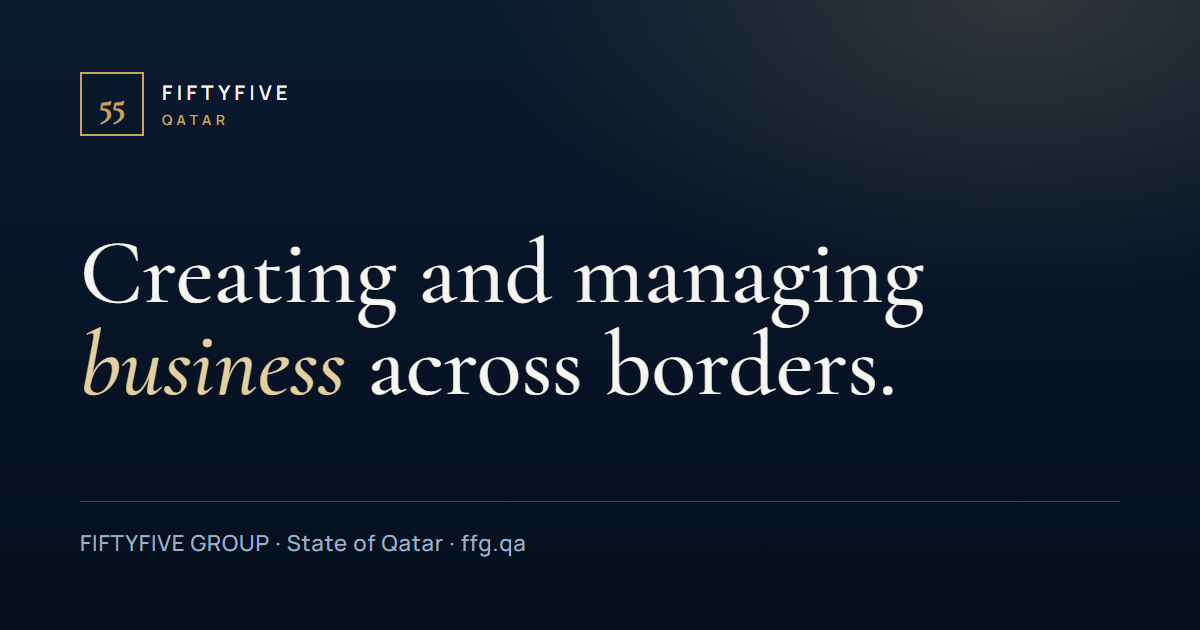
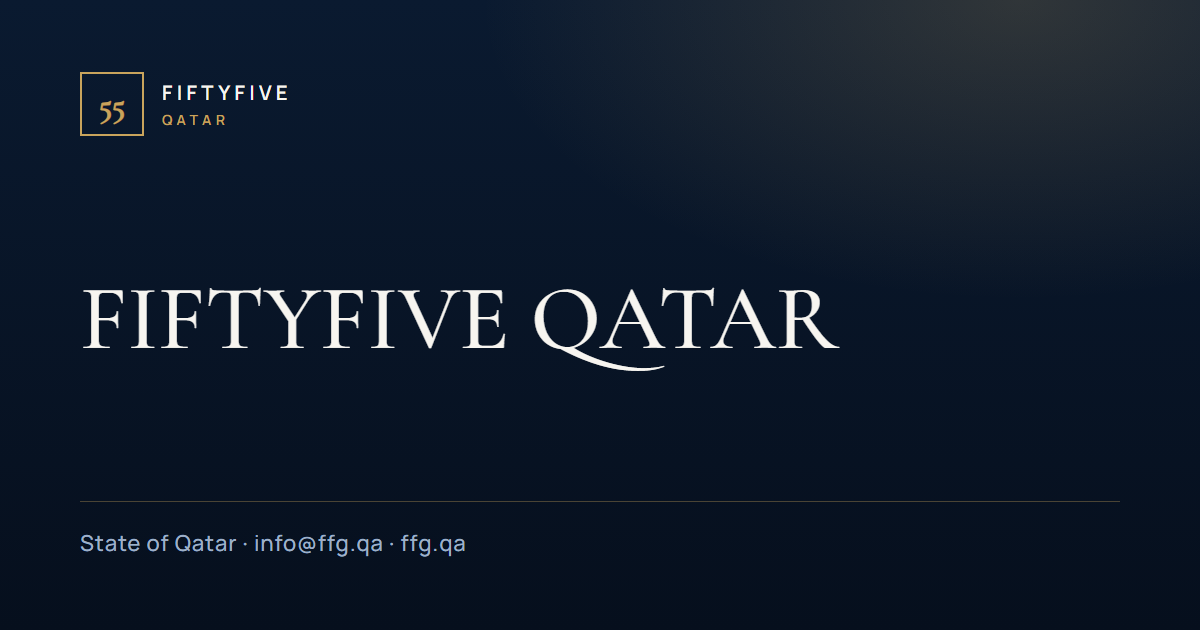
Reduce site to hero image and contact section

Changed region(s): [[0.0617, 0.3619, 0.7708, 0.6333], [0.0617, 0.8444, 0.4317, 0.9048]]

diff --git a/site/src/App.tsx b/site/src/App.tsx
@@ -1,36 +1,9 @@
 import { useEffect, useState, type FormEvent } from 'react'
-import { ArrowRight, Dumbbell, Landmark, Mail, Menu, Plane, Rocket, Shirt, UtensilsCrossed, X } from 'lucide-react'
-
-// All company facts below come from ffg.tj; do not add claims the client has not confirmed.
-const nav = [
-  ['About', '#about'],
-  ['Business', '#business'],
-  ['Qatar', '#qatar'],
-  ['Contact', '#contact'],
-]
-
-const business = [
-  { icon: Landmark, title: 'Finance', text: 'Eight years of experience in finance and insurance, including Vasl Bank, which develops a cashless economy in Tajikistan.' },
-  { icon: UtensilsCrossed, title: 'Food', text: 'Production, distribution and catering, including Community, a restaurant, banquet hall and event venue.' },
-  { icon: Shirt, title: 'Clothing', text: 'The iamfighter clothing brand, launched by the Group in 2017.' },
-  { icon: Plane, title: 'Aviation & Tourism', text: 'In-house airline ticketing software sold across the CIS, and Fly.tj online air ticket sales.' },
-  { icon: Dumbbell, title: 'Sport', text: 'Ten years in sport and a network of gyms, including UFC GYM Tajikistan and the Juventus Academy in Dushanbe.' },
-  { icon: Rocket, title: 'Startups', text: 'Support for early-stage innovative projects such as LakLak Market and UYSOT.' },
-]
-
-const values = [
-  ['Innovation', 'Continuous development and adoption of new technologies.'],
-  ['Professionalism', 'High competence and quality in everything we do.'],
-  ['Responsibility', 'Full accountability for our work and its results.'],
-]
-
-const countries = ['Qatar', 'UAE', 'China', 'Russia', 'Tajikistan', 'Kazakhstan', 'Uzbekistan', 'Georgia']
+import { ArrowRight, Mail } from 'lucide-react'
 
 const emails = ['Aziz@ffg.qa', 'Begarys@ffg.qa', 'Info@ffg.qa']
 
 export default function App() {
-  const [menuOpen, setMenuOpen] = useState(false)
-
   useEffect(() => {
     const io = new IntersectionObserver(
       (entries) => entries.forEach((e) => e.isIntersecting && (e.target.classList.add('in'), io.unobserve(e.target))),
@@ -42,12 +15,9 @@ export default function App() {
 
   return (
     <>
-      <Header menuOpen={menuOpen} setMenuOpen={setMenuOpen} />
+      <Header />
       <main>
         <Hero />
-        <About />
-        <Business />
-        <Qatar />
         <Contact />
       </main>
       <Footer />
@@ -67,7 +37,7 @@ function Logo() {
   )
 }
 
-function Header({ menuOpen, setMenuOpen }: { menuOpen: boolean; setMenuOpen: (v: boolean) => void }) {
+function Header() {
   const [scrolled, setScrolled] = useState(false)
   useEffect(() => {
     const onScroll = () => setScrolled(window.scrollY > 20)
@@ -76,33 +46,11 @@ function Header({ menuOpen, setMenuOpen }: { menuOpen: boolean; setMenuOpen: (v:
   }, [])
 
   return (
-    <header className={`fixed inset-x-0 top-0 z-50 transition-colors ${scrolled || menuOpen ? 'bg-navy-950/90 backdrop-blur' : ''}`}>
+    <header className={`fixed inset-x-0 top-0 z-50 transition-colors ${scrolled ? 'bg-navy-950/90 backdrop-blur' : ''}`}>
       <div className="mx-auto flex max-w-7xl items-center justify-between px-4 py-5 sm:px-8">
         <Logo />
-        <nav className="hidden gap-9 text-sm text-muted md:flex">
-          {nav.map(([label, href]) => (
-            <a key={href} href={href} className="transition-colors hover:text-paper">{label}</a>
-          ))}
-        </nav>
-        <a href="#contact" className="btn btn-gold hidden md:inline-flex">Contact Us</a>
-        <button
-          className="grid size-10 place-items-center border border-paper/25 md:hidden"
-          aria-label={menuOpen ? 'Close menu' : 'Open menu'}
-          aria-expanded={menuOpen}
-          onClick={() => setMenuOpen(!menuOpen)}
-        >
-          {menuOpen ? <X size={20} /> : <Menu size={20} />}
-        </button>
+        <a href="#contact" className="btn btn-gold max-sm:px-4 max-sm:py-2.5">Contact Us</a>
       </div>
-      {menuOpen && (
-        <nav className="flex flex-col border-t border-line px-4 pb-6 md:hidden">
-          {nav.map(([label, href]) => (
-            <a key={href} href={href} onClick={() => setMenuOpen(false)} className="border-b border-line py-4 font-display text-2xl">
-              {label}
-            </a>
-          ))}
-        </nav>
-      )}
     </header>
   )
 }
@@ -111,46 +59,20 @@ function Hero() {
   return (
     <section
       id="top"
-      className="relative flex min-h-svh flex-col overflow-hidden pt-24"
+      className="relative flex min-h-svh flex-col items-center justify-center overflow-hidden px-4 pt-28 pb-16 text-center"
       style={{
         background:
-          'radial-gradient(1200px 600px at 78% 8%, rgb(201 164 92 / .16), transparent 60%), radial-gradient(900px 700px at 10% 110%, rgb(17 38 74 / .9), transparent 70%), linear-gradient(180deg, #0a1a30, #060f1d)',
+          'radial-gradient(1200px 600px at 50% 0%, rgb(201 164 92 / .16), transparent 60%), radial-gradient(900px 700px at 10% 110%, rgb(17 38 74 / .9), transparent 70%), linear-gradient(180deg, #0a1a30, #060f1d)',
       }}
     >
       <div
         className="pointer-events-none absolute inset-0"
         style={{ backgroundImage: 'linear-gradient(to right, rgb(255 255 255 / .035) 1px, transparent 1px)', backgroundSize: 'calc(100% / 6) 100%' }}
       />
-      <div className="relative mx-auto grid w-full max-w-7xl flex-1 items-center gap-10 px-4 sm:px-8 lg:grid-cols-[1.1fr_.9fr]">
-        <div>
-          <p className="eyebrow reveal">FIFTYFIVE GROUP · State of Qatar</p>
-          <h1 className="reveal my-7 font-display text-[clamp(44px,6.4vw,96px)] font-medium leading-[.98]">
-            Creating and managing <em className="text-gold-soft">business</em> across borders.
-          </h1>
-          <p className="reveal max-w-xl leading-relaxed text-muted">
-            <strong className="font-medium text-paper">FIFTYFIVE QATAR</strong> represents FIFTYFIVE GROUP — an investment and
-            management company founded in 2015 — in the State of Qatar.
-          </p>
-          <div className="reveal mt-10 flex flex-wrap gap-3.5">
-            <a href="#contact" className="btn btn-gold">Contact Us <ArrowRight size={16} /></a>
-            <a href="#business" className="btn btn-ghost">Our Business</a>
-          </div>
-        </div>
-        <Skyline />
-      </div>
-      <div className="relative mx-auto mt-12 grid w-full max-w-7xl grid-cols-3 border-t border-line px-4 sm:px-8 lg:grid-cols-[auto_auto_auto_1fr]">
-        {[['2015', 'Founded'], ['10', 'Years of work'], ['8', 'Countries']].map(([n, label]) => (
-          <div key={label} className="border-r border-line py-6 pr-3 last-of-type:border-r-0 lg:mr-12 lg:pr-12 lg:last-of-type:border-r">
-            <b className="block font-display text-4xl font-medium leading-none text-gold lg:text-5xl">{n}</b>
-            <span className="mt-2 block text-[10px] uppercase tracking-[0.12em] text-muted sm:text-xs">{label}</span>
-          </div>
-        ))}
-        <ul className="col-span-3 flex flex-wrap gap-x-6 gap-y-2.5 pb-8 text-[13px] text-muted lg:col-span-1 lg:justify-end lg:self-center lg:pb-0">
-          {business.map((b) => (
-            <li key={b.title} className="flex items-center gap-2.5 before:size-1.5 before:rotate-45 before:bg-gold">{b.title}</li>
-          ))}
-        </ul>
-      </div>
+      <Skyline />
+      <p className="eyebrow reveal relative mt-10 justify-center">State of Qatar</p>
+      <h1 className="reveal relative mt-5 font-display text-[clamp(44px,7vw,104px)] font-medium leading-none">FIFTYFIVE QATAR</h1>
+      <a href="#contact" className="btn btn-gold reveal relative mt-10">Contact Us <ArrowRight size={16} /></a>
     </section>
   )
 }
@@ -158,7 +80,7 @@ function Hero() {
 // Stylised West Bay skyline; swap for a licensed Doha photo when the client provides one.
 function Skyline() {
   return (
-    <svg className="skyline max-h-56 w-full self-end max-lg:-order-1 lg:max-h-none" viewBox="0 0 560 420" aria-hidden="true">
+    <svg className="skyline relative max-h-[46svh] w-full max-w-3xl" viewBox="0 0 560 420" aria-hidden="true">
       <defs>
         <linearGradient id="tower" x1="0" y1="0" x2="0" y2="1">
           <stop offset="0" stopColor="#c9a45c" stopOpacity=".22" />
@@ -182,93 +104,6 @@ function Skyline() {
       <line className="sea" x1="120" y1="394" x2="440" y2="394" />
       <line className="sea" x1="190" y1="408" x2="370" y2="408" />
     </svg>
-  )
-}
-
-function SectionHead({ eyebrow, title }: { eyebrow: string; title: string }) {
-  return (
-    <div className="reveal mb-14">
-      <p className="eyebrow">{eyebrow}</p>
-      <h2 className="mt-5 max-w-3xl font-display text-[clamp(34px,4.4vw,60px)] font-medium leading-[1.05]">{title}</h2>
-    </div>
-  )
-}
-
-function About() {
-  return (
-    <section id="about" className="bg-paper text-navy-950">
-      <div className="mx-auto max-w-7xl px-4 py-24 sm:px-8 lg:py-32">
-        <SectionHead eyebrow="About us" title="The Qatar office of FIFTYFIVE GROUP." />
-        <div className="grid gap-12 lg:grid-cols-2">
-          <div className="reveal space-y-5 text-lg leading-relaxed text-navy-800">
-            <p>
-              FIFTYFIVE GROUP is an investment and management company, established as a separate enterprise in 2015. For ten
-              years the Group has been creating and managing businesses in Tajikistan, Uzbekistan, Kazakhstan, Russia, China and
-              the United Arab Emirates.
-            </p>
-            <p>FIFTYFIVE QATAR represents the Group in the State of Qatar.</p>
-          </div>
-          <blockquote className="reveal border-l-2 border-gold pl-8 font-display text-3xl italic leading-snug">
-            “Our team creates and manages business to develop the economy and society.”
-            <footer className="mt-4 font-sans text-xs not-italic uppercase tracking-[0.24em] text-navy-800/70">Our mission</footer>
-          </blockquote>
-        </div>
-        <div className="mt-20 grid border-t border-navy-950/15 sm:grid-cols-3">
-          {values.map(([title, text]) => (
-            <div key={title} className="reveal border-b border-navy-950/15 py-8 sm:border-r sm:border-b-0 sm:px-8 sm:first:pl-0 sm:last:border-r-0">
-              <h3 className="font-display text-2xl font-semibold">{title}</h3>
-              <p className="mt-2 text-navy-800/80">{text}</p>
-            </div>
-          ))}
-        </div>
-      </div>
-    </section>
-  )
-}
-
-function Business() {
-  return (
-    <section id="business" className="bg-navy-900">
-      <div className="mx-auto max-w-7xl px-4 py-24 sm:px-8 lg:py-32">
-        <SectionHead eyebrow="Our business" title="Six business directions of the Group." />
-        <div className="grid gap-px bg-line sm:grid-cols-2 lg:grid-cols-3">
-          {business.map(({ icon: Icon, title, text }) => (
-            <article key={title} className="reveal group bg-navy-900 p-8 transition-colors hover:bg-navy-800 lg:p-10">
-              <Icon className="text-gold" size={28} strokeWidth={1.4} />
-              <h3 className="mt-8 font-display text-3xl font-medium">{title}</h3>
-              <p className="mt-3 leading-relaxed text-muted">{text}</p>
-            </article>
-          ))}
-        </div>
-      </div>
-    </section>
-  )
-}
-
-function Qatar() {
-  return (
-    <section id="qatar" className="bg-navy-950">
-      <div className="mx-auto grid max-w-7xl gap-14 px-4 py-24 sm:px-8 lg:grid-cols-2 lg:py-32">
-        <div>
-          <SectionHead eyebrow="Qatar" title="Part of an international group." />
-          <p className="reveal max-w-xl text-lg leading-relaxed text-muted">
-            Qatar is one of the eight countries in FIFTYFIVE GROUP's geography. FIFTYFIVE QATAR is the Group's point of contact in
-            the State of Qatar for partners, investors and companies interested in its business directions.
-          </p>
-          <a href="#contact" className="btn btn-ghost reveal mt-10">Get in touch <ArrowRight size={16} /></a>
-        </div>
-        <ul className="reveal grid grid-cols-2 self-end border-t border-line">
-          {countries.map((c) => (
-            <li
-              key={c}
-              className={`border-b border-line py-5 font-display text-2xl odd:pr-4 ${c === 'Qatar' ? 'text-gold' : 'text-paper/80'}`}
-            >
-              {c}
-            </li>
-          ))}
-        </ul>
-      </div>
-    </section>
   )
 }
 
@@ -305,7 +140,10 @@ function Contact() {
     <section id="contact" className="bg-navy-900">
       <div className="mx-auto grid max-w-7xl gap-16 px-4 py-24 sm:px-8 lg:grid-cols-[.9fr_1.1fr] lg:py-32">
         <div>
-          <SectionHead eyebrow="Contact" title="Let's talk." />
+          <div className="reveal mb-14">
+            <p className="eyebrow">Contact</p>
+            <h2 className="mt-5 font-display text-[clamp(34px,4.4vw,60px)] font-medium leading-[1.05]">Let's talk.</h2>
+          </div>
           <ul className="reveal space-y-4">
             {emails.map((m) => (
               <li key={m}>
@@ -358,10 +196,7 @@ function Footer() {
       <div className="mx-auto flex max-w-7xl flex-col gap-6 px-4 py-10 text-sm text-muted sm:flex-row sm:items-center sm:justify-between sm:px-8">
         <Logo />
         <a href="mailto:info@ffg.qa" className="hover:text-gold">Info@ffg.qa</a>
-        <p>
-          © {new Date().getFullYear()} FIFTYFIVE QATAR. A member of{' '}
-          <a href="https://ffg.tj/" target="_blank" rel="noopener" className="hover:text-gold">FIFTYFIVE GROUP</a>.
-        </p>
+        <p>© {new Date().getFullYear()} FIFTYFIVE QATAR</p>
       </div>
     </footer>
   )

diff --git a/site/index.html b/site/index.html
@@ -3,8 +3,8 @@
   <head>
     <meta charset="UTF-8" />
     <meta name="viewport" content="width=device-width, initial-scale=1.0" />
-    <title>FIFTYFIVE QATAR — FIFTYFIVE GROUP in the State of Qatar</title>
-    <meta name="description" content="FIFTYFIVE QATAR represents FIFTYFIVE GROUP, an investment and management company founded in 2015, in the State of Qatar. Finance, food, clothing, aviation and tourism, sport and startups." />
+    <title>FIFTYFIVE QATAR — State of Qatar</title>
+    <meta name="description" content="FIFTYFIVE QATAR, State of Qatar. Contact us at info@ffg.qa." />
     <meta name="theme-color" content="#0a1a30" />
     <link rel="canonical" href="https://ffg.qa/" />
     <link rel="icon" href="/favicon.svg" type="image/svg+xml" />
@@ -13,7 +13,7 @@
     <meta property="og:type" content="website" />
     <meta property="og:site_name" content="FIFTYFIVE QATAR" />
     <meta property="og:title" content="FIFTYFIVE QATAR" />
-    <meta property="og:description" content="FIFTYFIVE GROUP in the State of Qatar. Creating and managing business across borders." />
+    <meta property="og:description" content="FIFTYFIVE QATAR, State of Qatar. Contact us at info@ffg.qa." />
     <meta property="og:url" content="https://ffg.qa/" />
     <meta property="og:image" content="https://ffg.qa/og.png" />
     <meta property="og:image:width" content="1200" />
